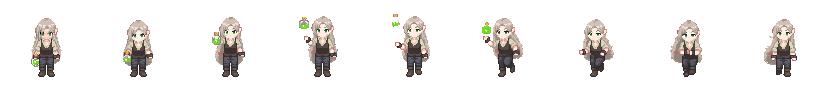
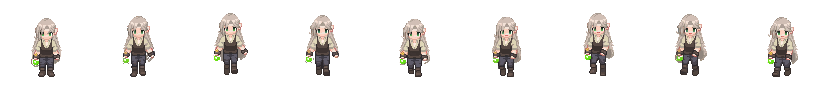
fix: replace six-class directional walk cycles

diff --git a/js/passives.js b/js/passives.js
@@ -6598,7 +6598,7 @@ function initBattleAssets() {
         playerClassOccultistIdleSouth: 'assets/playable/classes/occultist/idle-south.webp',
         playerClassOccultistWalk: 'assets/playable/classes/occultist/walk.webp',
         playerClassOccultistWalkNorth: 'assets/playable/classes/occultist/walk-north.webp',
-        playerClassOccultistWalkSouth: 'assets/playable/classes/occultist/walk-south.webp',
+        playerClassOccultistWalkSouth: 'assets/playable/classes/occultist/walk-south.webp?v=20260902-walk-repair2',
         playerClassOccultistWalkWest: 'assets/playable/classes/occultist/walk-west.webp',
         playerClassOccultistAttack: 'assets/playable/classes/occultist/attack.webp',
         playerClassOccultistAttack2: 'assets/playable/classes/occultist/attack-2.webp',
@@ -6623,7 +6623,7 @@ function initBattleAssets() {
         playerClassClericIdleSouth: 'assets/playable/classes/cleric/idle-south.webp',
         playerClassClericWalk: 'assets/playable/classes/cleric/walk.webp',
         playerClassClericWalkNorth: 'assets/playable/classes/cleric/walk-north.webp',
-        playerClassClericWalkSouth: 'assets/playable/classes/cleric/walk-south.webp',
+        playerClassClericWalkSouth: 'assets/playable/classes/cleric/walk-south.webp?v=20260902-walk-repair2',
         playerClassClericWalkWest: 'assets/playable/classes/cleric/walk-west.webp',
         playerClassClericAttack: 'assets/playable/classes/cleric/attack.webp',
         playerClassClericAttackNorth: 'assets/playable/classes/cleric/attack-north.webp',
@@ -6644,10 +6644,10 @@ function initBattleAssets() {
         playerClassAlchemistIdle: 'assets/playable/classes/alchemist/idle.webp',
         playerClassAlchemistIdleNorth: 'assets/playable/classes/alchemist/idle-north.webp',
         playerClassAlchemistIdleSouth: 'assets/playable/classes/alchemist/idle-south.webp',
-        playerClassAlchemistWalk: 'assets/playable/classes/alchemist/walk.webp',
-        playerClassAlchemistWalkNorth: 'assets/playable/classes/alchemist/walk-north.webp',
-        playerClassAlchemistWalkSouth: 'assets/playable/classes/alchemist/walk-south.webp',
-        playerClassAlchemistWalkWest: 'assets/playable/classes/alchemist/walk-west.webp',
+        playerClassAlchemistWalk: 'assets/playable/classes/alchemist/walk.webp?v=20260902-walk-repair2',
+        playerClassAlchemistWalkNorth: 'assets/playable/classes/alchemist/walk-north.webp?v=20260902-walk-repair2',
+        playerClassAlchemistWalkSouth: 'assets/playable/classes/alchemist/walk-south.webp?v=20260902-walk-repair2',
+        playerClassAlchemistWalkWest: 'assets/playable/classes/alchemist/walk-west.webp?v=20260902-walk-repair2',
         playerClassAlchemistAttack: 'assets/playable/classes/alchemist/attack.webp',
         playerClassAlchemistAttack2: 'assets/playable/classes/alchemist/attack-2.webp',
         playerClassAlchemistAttack3: 'assets/playable/classes/alchemist/attack-3.webp',
@@ -6657,10 +6657,10 @@ function initBattleAssets() {
         playerClassWarriorIdle: 'assets/playable/classes/warrior/idle.webp',
         playerClassWarriorIdleNorth: 'assets/playable/classes/warrior/idle-north.webp',
         playerClassWarriorIdleSouth: 'assets/playable/classes/warrior/idle-south.webp',
-        playerClassWarriorWalk: 'assets/playable/classes/warrior/walk.webp',
+        playerClassWarriorWalk: 'assets/playable/classes/warrior/walk.webp?v=20260902-walk-repair2',
         playerClassWarriorWalkNorth: 'assets/playable/classes/warrior/walk-north.webp',
         playerClassWarriorWalkSouth: 'assets/playable/classes/warrior/walk-south.webp',
-        playerClassWarriorWalkWest: 'assets/playable/classes/warrior/walk-west.webp',
+        playerClassWarriorWalkWest: 'assets/playable/classes/warrior/walk-west.webp?v=20260902-walk-repair2',
         playerClassWarriorAttack: 'assets/playable/classes/warrior/attack.webp',
         playerClassWarriorAttack2: 'assets/playable/classes/warrior/attack-2.webp',
         playerClassWarriorAttack3: 'assets/playable/classes/warrior/attack-3.webp',

diff --git a/index.html b/index.html
@@ -1669,7 +1669,7 @@
 <script defer src="js/items.js?v=20260719-white-copy1-20260810-market-clarity1-20260811-exchange-picker1&pinnacle=20260814-atlas1&base=20260815-market-t15&exchange=20260816-live1&hall=20260818-1&visuals=20260820-1&hideout-travel=20260822-1&equipment-grid=20260827-10&inventory-pages=20260827-1"></script>
 <script defer src="js/equipment-loadouts.js?v=20260817-loadout1&identity=20260820-1&duplicate-identity=20260821-1&inventory-pages=20260827-1"></script>
 <script defer src="js/equipment-inventory-grid.js?v=20260827-9"></script>
-    <script defer src="js/passives.js?v=20260807-drop-affix-curve3-20260807-asset-manifest1-20260807-growth-affix-balance1-20260807-hero-appearance-mode1-20260807-growth-overflow1&reward=20260806-act2-fix1&presets=20260810-passive1&battle=20260811-body-cue2&void=20260811-reroll1&defense-unique=20260811-rework1&fx-backlog=20260811-clear1&venom=20260811-image2&encroachment=20260811-tier1&damage-text=20260811-volley1&spore-craft=20260811-guard1&node-art=20260811-v2states1&deflect-text=20260812-muted1&meteor=20260814-assets1&loot=20260815-cosmos-tier1&blizzard=20260816-sprites1&ocean=20260817-fishing1&review=20260817-1&shrine=20260817-field1&hall=20260818-1&vfx-budget=20260818-1&balance=20260819-endless-cap1&loadout=20260820-1&hideout=20260821-2&backdrop=20260820-lazy1&endgame=20260820-tabs1&combat-log-icons=20260822-1&preset-effects=20260822-1&map-tabs=20260823-1&inventory-pages=20260827-1&test-character=20260828-7&player-classes=20260828-1&special-variation=20260829-1&tree-visual=20260829-13&beyond=20260901-2&vfx-icons=20260901-1&review-fixes=20260901-1&tutorial-pause=20260901-1&ascend-info=20260901-1&square-map=20260901-3&walk-direction=20260901-1&attack-direction=20260902-1&idle-direction=20260902-1&pixel-vfx=20260902-1&realm-monsters=20260902-1&drop-balance=20260902-1&underworld-yield=20260902-1"></script>
+    <script defer src="js/passives.js?v=20260807-drop-affix-curve3-20260807-asset-manifest1-20260807-growth-affix-balance1-20260807-hero-appearance-mode1-20260807-growth-overflow1&reward=20260806-act2-fix1&presets=20260810-passive1&battle=20260811-body-cue2&void=20260811-reroll1&defense-unique=20260811-rework1&fx-backlog=20260811-clear1&venom=20260811-image2&encroachment=20260811-tier1&damage-text=20260811-volley1&spore-craft=20260811-guard1&node-art=20260811-v2states1&deflect-text=20260812-muted1&meteor=20260814-assets1&loot=20260815-cosmos-tier1&blizzard=20260816-sprites1&ocean=20260817-fishing1&review=20260817-1&shrine=20260817-field1&hall=20260818-1&vfx-budget=20260818-1&balance=20260819-endless-cap1&loadout=20260820-1&hideout=20260821-2&backdrop=20260820-lazy1&endgame=20260820-tabs1&combat-log-icons=20260822-1&preset-effects=20260822-1&map-tabs=20260823-1&inventory-pages=20260827-1&test-character=20260828-7&player-classes=20260828-1&special-variation=20260829-1&tree-visual=20260829-13&beyond=20260901-2&vfx-icons=20260901-1&review-fixes=20260901-1&tutorial-pause=20260901-1&ascend-info=20260901-1&square-map=20260901-3&walk-direction=20260901-1&attack-direction=20260902-1&idle-direction=20260902-1&pixel-vfx=20260902-1&realm-monsters=20260902-1&drop-balance=20260902-1&underworld-yield=20260902-1&walk-repair=20260902-2"></script>
 <script defer src="js/battle-backdrops.js?v=20260821-hideout1"></script>
 <script defer src="js/shrines.js?v=20260817-battlefield1"></script>
 <script defer src="js/growth-board.js?v=20260806-growth-chase1&overflow=20260819-salvage1&essence=20260819-random1"></script>

diff --git a/scripts/smoke-test-character-motions.js b/scripts/smoke-test-character-motions.js
@@ -79,6 +79,8 @@ assert.strictEqual(intentionalTalentSave.selectedHeroId, 'hero1',
 const manifest = JSON.parse(fs.readFileSync('assets/playable/classes/manifest.json', 'utf8'));
 let totalBytes = 0;
 definitions.forEach(def => {
+    assert(!/(?:toss|throw|shot|slash|thrust|kick|swing|channel)/i.test(manifest[def.id].walkAnimation),
+        `${def.label} walk source must not reuse an attack-like animation`);
     let portrait = fs.readFileSync(def.portrait);
     assert.strictEqual(portrait.readUInt32BE(16), 64, `${def.label} portrait width must be 64px`);
     assert.strictEqual(portrait.readUInt32BE(20), 64, `${def.label} portrait height must be 64px`);

diff --git a/scripts/build-test-character-assets.py b/scripts/build-test-character-assets.py
@@ -17,6 +17,9 @@ CHARACTERS = {
         "folder": "Idle_6",
         "label": "비술사",
         "walk": "mage_walking_forward_both_hands_raised_and_cupped",
+        "walkSources": {
+            "south": {"direction": "south-38ccea5a"},
+        },
         "attacks": [
             "spellcaster_with_levitating_blue_orb_orb_dims_then",
             "arcanist_channels_a_spell_floating_orb_in_raised_h",
@@ -47,9 +50,9 @@ CHARACTERS = {
         ],
     },
     "alchemist": {
-        "folder": "Idle_2",
+        "folder": "Idle",
         "label": "연금술사",
-        "walk": "alchemist_strutting_forward_tossing_a_potion_flask",
+        "walk": "The_character_takes_a_series_of_exaggerated_rhythm",
         "attacks": [
             "throwing_a_flask_with_the_right_hand_follow_throug",
             "right-handed_overhand_throw_wind_up_arm_behind_hea",
@@ -57,10 +60,21 @@ CHARACTERS = {
         ],
     },
     "warrior": {
-        "folder": "Idle",
+        "folder": "Idle_2",
         "label": "전사",
-        "walkState": "pixel_art_knight_sta",
-        "walk": "armored_knight_walking_sword_sheathed_at_the_waist",
+        "walk": "knight_walking_forward_greatsword_held_with_both_h",
+        "walkSources": {
+            "east": {"offsetY": -20},
+            "north": {
+                "state": "pixel_art_knight_sta",
+                "animation": "armored_knight_walking_sword_sheathed_at_the_waist",
+            },
+            "south": {
+                "state": "pixel_art_knight_sta",
+                "animation": "armored_knight_walking_sword_sheathed_at_the_waist",
+            },
+            "west": {"offsetY": -4},
+        },
         "attacks": [
             "The_character_raises_the_greatsword_from_its_low_r",
             "The_character_firmly_grips_the_sword_hilt_with_bot",
@@ -121,7 +135,20 @@ def optional_frame_paths(
     return [path for path in frame_paths(folder, animation, direction=direction) if path in names]
 
 
-def pack_strip(archive: zipfile.ZipFile, paths: list[str], output: Path) -> dict[str, int]:
+def resolve_walk_source(config: dict[str, object], direction: str) -> tuple[str, str, str, int]:
+    override = config.get("walkSources", {}).get(direction, {})
+    state = str(override.get("state", config.get("walkState", "Idle")))
+    animation = str(override.get("animation", config["walk"]))
+    source_direction = str(override.get("direction", direction))
+    return state, animation, source_direction, int(override.get("offsetY", 0))
+
+
+def pack_strip(
+    archive: zipfile.ZipFile,
+    paths: list[str],
+    output: Path,
+    offset_y: int = 0,
+) -> dict[str, int]:
     frames = [read_rgba(archive, path) for path in paths]
     sizes = {(frame.width, frame.height) for frame in frames}
     if len(sizes) != 1:
@@ -129,7 +156,7 @@ def pack_strip(archive: zipfile.ZipFile, paths: list[str], output: Path) -> dict
     width, height = next(iter(sizes))
     strip = Image.new("RGBA", (width * len(frames), height), (0, 0, 0, 0))
     for index, frame in enumerate(frames):
-        strip.alpha_composite(frame, (index * width, 0))
+        strip.alpha_composite(frame, (index * width, offset_y))
     output.parent.mkdir(parents=True, exist_ok=True)
     strip.save(output, format="WEBP", lossless=True, method=6, exact=True)
     return {"frames": len(frames), "frameWidth": width, "frameHeight": height}
@@ -145,7 +172,6 @@ def main() -> None:
         for character_id, config in CHARACTERS.items():
             target = args.output / character_id
             folder = str(config["folder"])
-            walk_state = str(config.get("walkState", "Idle"))
             directional_idles = {}
             for direction in IDLE_DIRECTIONS:
                 idle_paths = existing_frame_paths(archive, folder, None, direction=direction)
@@ -156,13 +182,14 @@ def main() -> None:
                 }
             directional_walks = {}
             for direction in CARDINAL_DIRECTIONS:
+                walk_state, walk_animation, source_direction, offset_y = resolve_walk_source(config, direction)
                 walk_paths = existing_frame_paths(
-                    archive, folder, config["walk"], walk_state, direction
+                    archive, folder, walk_animation, walk_state, source_direction
                 )
                 filename = "walk.webp" if direction == DEFAULT_DIRECTION else f"walk-{direction}.webp"
                 directional_walks[direction] = {
                     "asset": filename,
-                    **pack_strip(archive, walk_paths, target / filename),
+                    **pack_strip(archive, walk_paths, target / filename, offset_y),
                 }
             attacks = [str(animation) for animation in config["attacks"]]
             attack_directions = {direction: [] for direction in ATTACK_DIRECTIONS}
@@ -183,7 +210,7 @@ def main() -> None:
                 "label": config["label"],
                 "sourceFolder": folder,
                 "direction": DEFAULT_DIRECTION,
-                "walkState": walk_state,
+                "walkState": str(config.get("walkState", "Idle")),
                 "walkAnimation": config["walk"],
                 "attackAnimation": attacks[0],
                 "attackAnimations": attacks,
